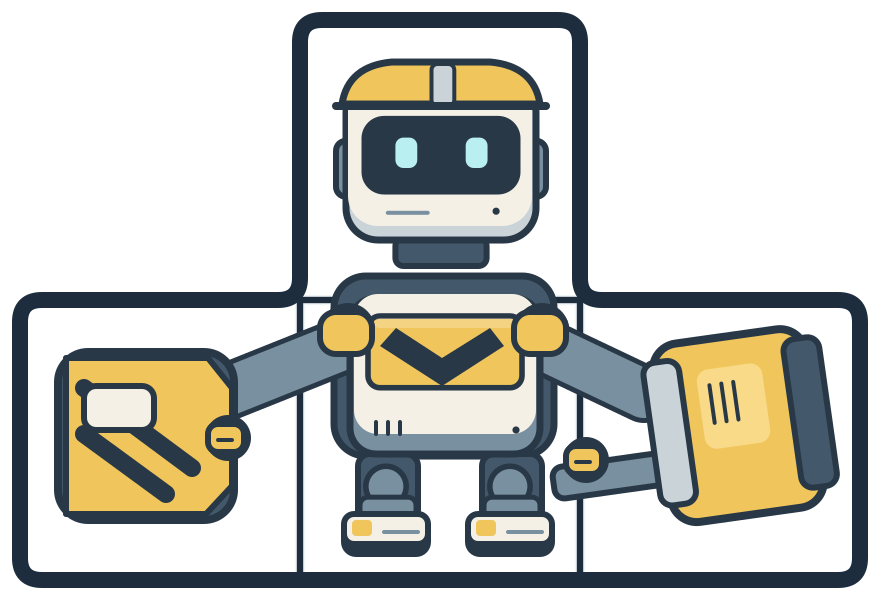
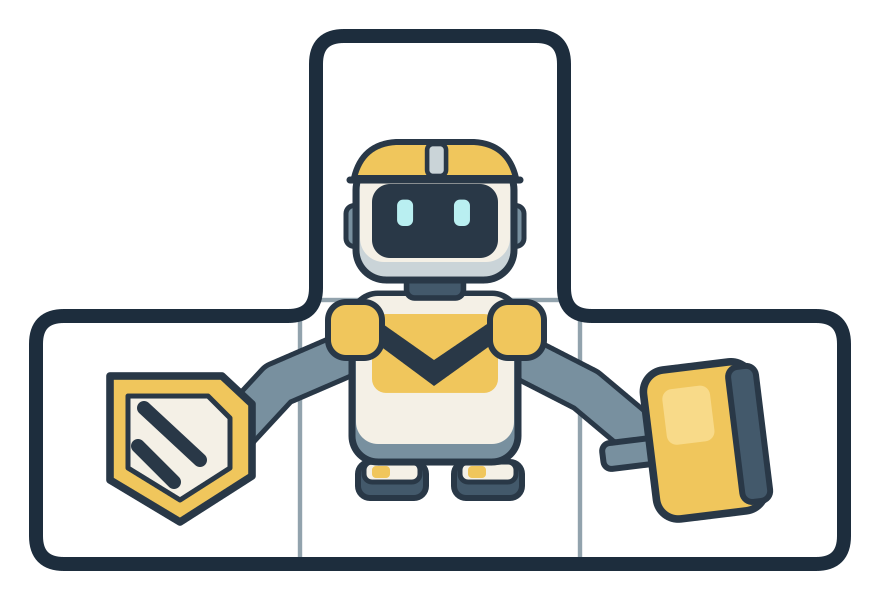
feat：机器人icon优化

diff --git a/Assets/GameScripts/HotFix/GameLogic/Gameplay/Entities/Tests/RobotMergePresentationTests.cs b/Assets/GameScripts/HotFix/GameLogic/Gameplay/Entities/Tests/RobotMergePresentationTests.cs
@@ -51,7 +51,7 @@ namespace GameLogic.Tests
                     Assert.Greater(portrait.sortingOrder, icon.sortingOrder);
                     CollectionAssert.AreEquivalent(new[] { icon, portrait },
                         instance.GetComponentsInChildren<SpriteRenderer>(true).Where(renderer => renderer.enabled));
-                    Assert.AreEqual(Color.white, icon.color);
+                    Assert.AreEqual(RobotLevelStyle.ColorForLevel(1), icon.color);
                     Assert.AreEqual(Color.white, portrait.color);
                     Assert.IsTrue(robot.TryUpgrade());
                     view.Render(robot);
@@ -222,9 +222,9 @@ namespace GameLogic.Tests
             Assert.IsNotNull(style, "等级背景必须独立于固定品质。");
             var method = style.GetMethod("ColorForLevel", BindingFlags.Public | BindingFlags.Static);
             Assert.IsNotNull(method);
-            var white = (Color)method.Invoke(null, new object[] { 1 });
+            var baseColor = (Color)method.Invoke(null, new object[] { 1 });
             var gold = (Color)method.Invoke(null, new object[] { 5 });
-            Assert.AreEqual(Color.white, white);
+            Assert.AreEqual((Color)new Color32(238, 243, 247, 255), baseColor);
             Assert.Greater(gold.r, gold.b);
             Assert.Greater(gold.g, gold.b);
             for (var level = 1; level < 5; level++)

diff --git a/Assets/GameScripts/HotFix/GameLogic/Gameplay/ShopPresentation/RobotLevelStyle.cs b/Assets/GameScripts/HotFix/GameLogic/Gameplay/ShopPresentation/RobotLevelStyle.cs
@@ -2,7 +2,7 @@ using UnityEngine;
 
 namespace GameLogic
 {
-    /// <summary>局内等级配色；固定品质仍由机器人配置决定。</summary>
+    /// <summary>纯色底板按局内等级配色；立绘保持原色，固定品质由配置决定。</summary>
     public static class RobotLevelStyle
     {
         public static readonly Color IconColor = new Color(0.16f, 0.19f, 0.24f);
@@ -17,11 +17,11 @@ namespace GameLogic
         {
             switch (level)
             {
-                case 2: return new Color(0.37f, 0.78f, 0.42f);
-                case 3: return new Color(0.28f, 0.57f, 0.95f);
-                case 4: return new Color(0.70f, 0.39f, 0.88f);
-                case 5: return new Color(1f, 0.76f, 0.20f);
-                default: return Color.white;
+                case 2: return new Color32(109, 187, 128, 255);
+                case 3: return new Color32(90, 160, 229, 255);
+                case 4: return new Color32(167, 121, 215, 255);
+                case 5: return new Color32(237, 186, 69, 255);
+                default: return new Color32(238, 243, 247, 255);
             }
         }
     }
